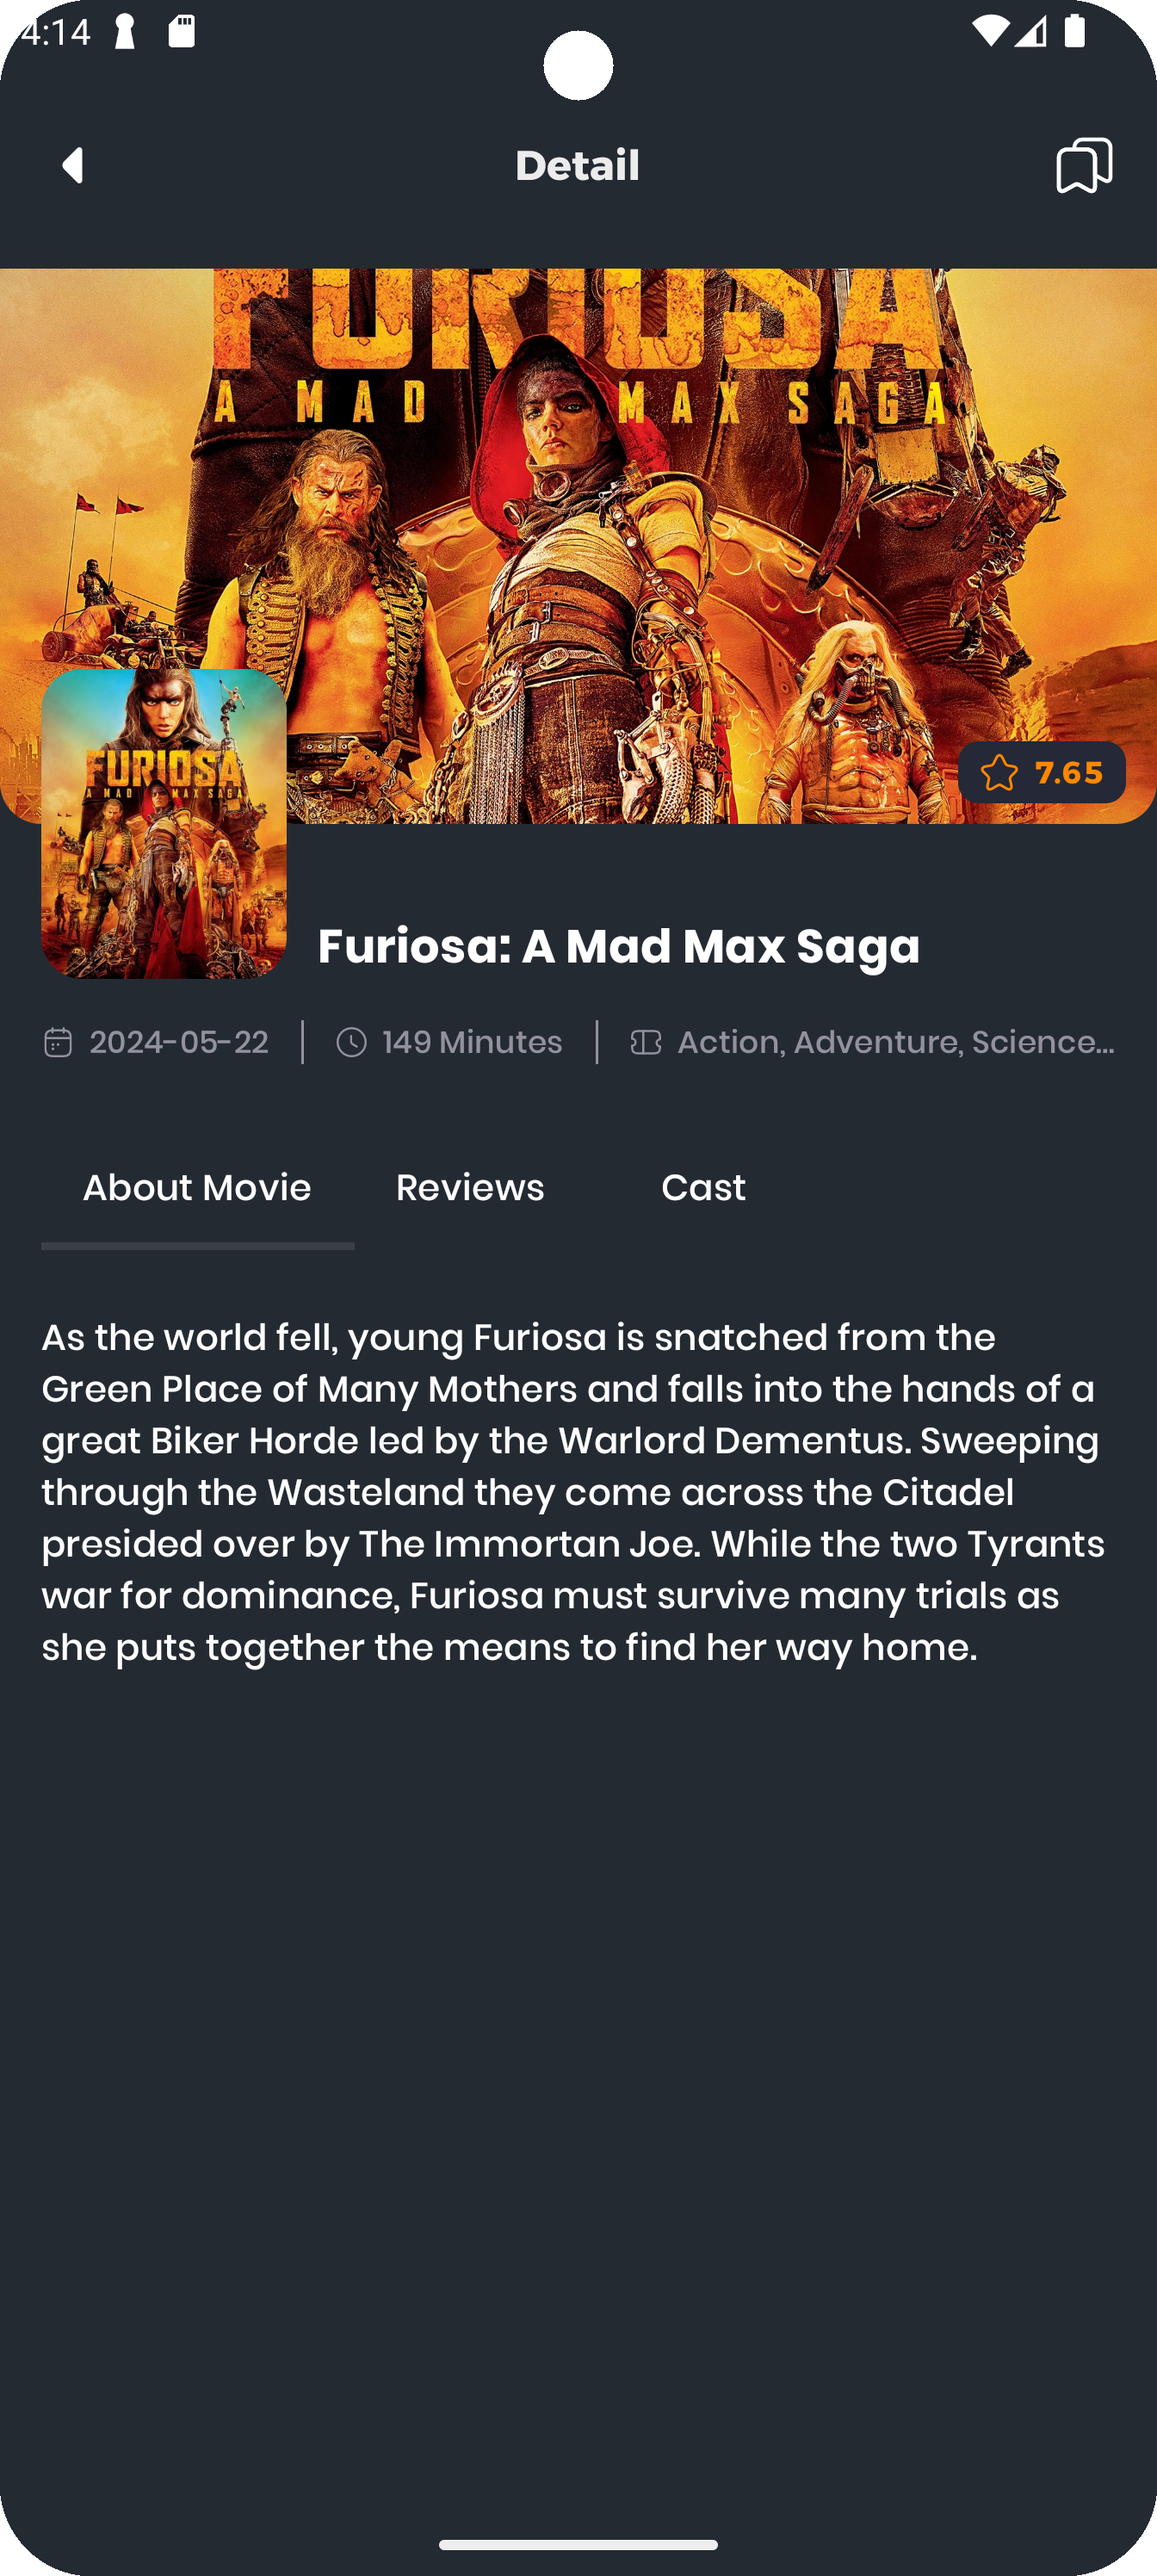
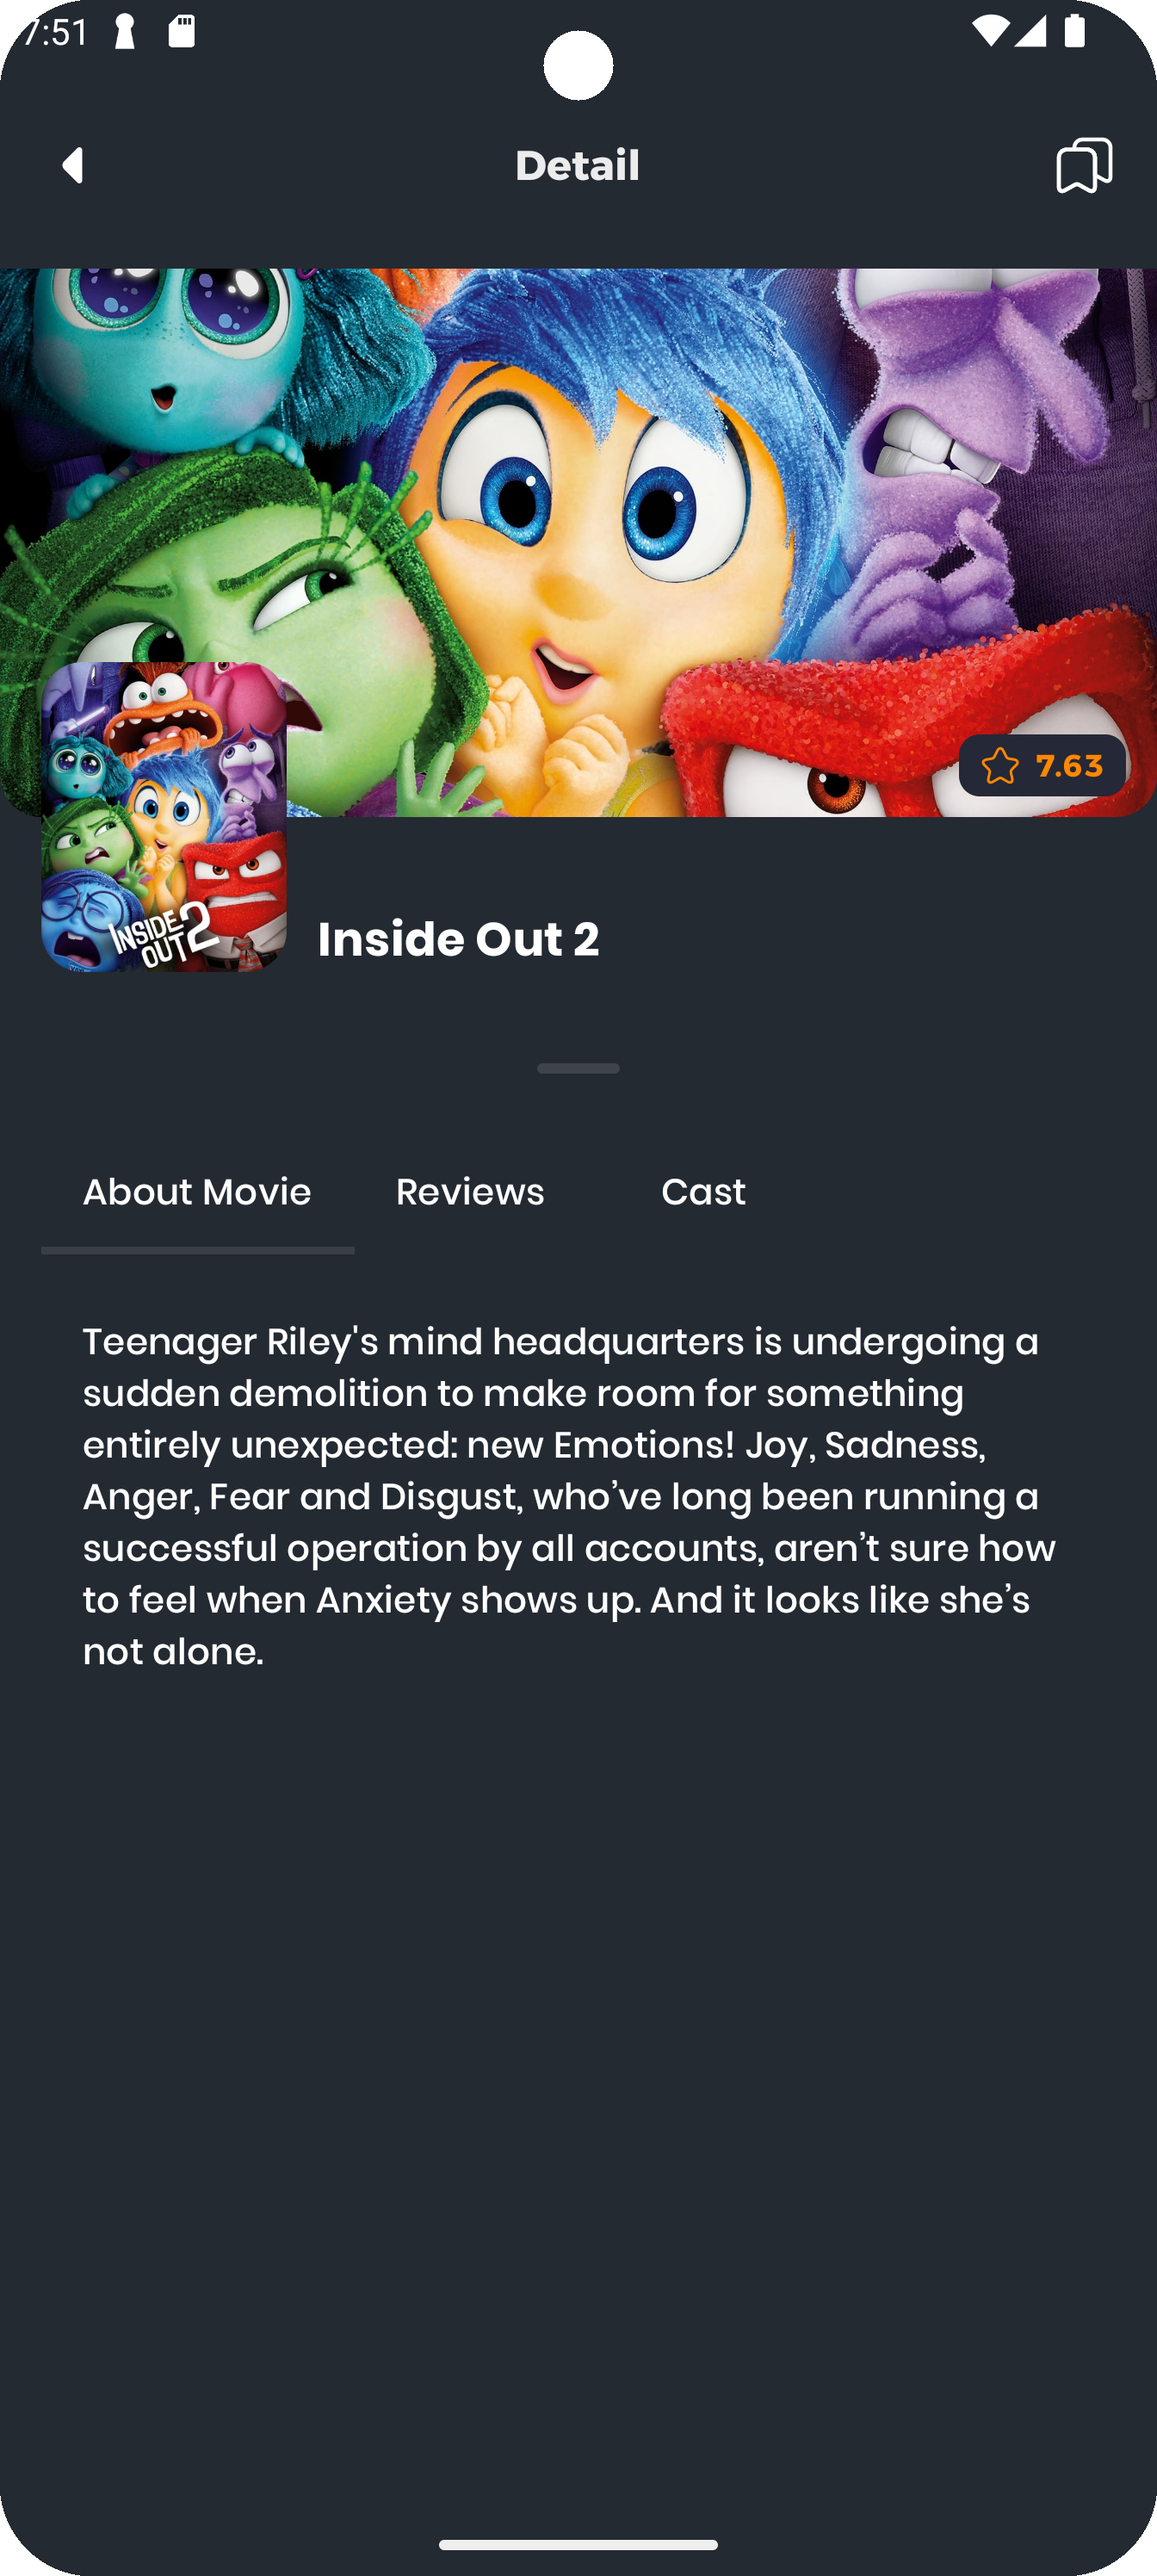
feat: support small screen

diff --git a/app/src/main/java/com/alvaro/movieapp/features/detail/DetailScreen.kt b/app/src/main/java/com/alvaro/movieapp/features/detail/DetailScreen.kt
@@ -15,29 +15,35 @@ import androidx.compose.foundation.layout.offset
 import androidx.compose.foundation.layout.padding
 import androidx.compose.foundation.layout.size
 import androidx.compose.foundation.layout.width
+import androidx.compose.foundation.lazy.LazyColumn
 import androidx.compose.foundation.lazy.grid.GridCells
 import androidx.compose.foundation.lazy.grid.LazyGridState
 import androidx.compose.foundation.lazy.grid.LazyVerticalGrid
 import androidx.compose.foundation.lazy.grid.items
 import androidx.compose.foundation.lazy.grid.rememberLazyGridState
-import androidx.compose.foundation.rememberScrollState
+import androidx.compose.foundation.lazy.rememberLazyListState
 import androidx.compose.foundation.shape.RoundedCornerShape
-import androidx.compose.foundation.verticalScroll
+import androidx.compose.material3.BottomSheetDefaults
+import androidx.compose.material3.BottomSheetScaffold
+import androidx.compose.material3.ExperimentalMaterial3Api
 import androidx.compose.material3.Icon
 import androidx.compose.material3.IconButton
 import androidx.compose.material3.MaterialTheme
 import androidx.compose.material3.Text
 import androidx.compose.material3.VerticalDivider
 import androidx.compose.runtime.Composable
+import androidx.compose.runtime.LaunchedEffect
 import androidx.compose.runtime.getValue
 import androidx.compose.runtime.mutableIntStateOf
 import androidx.compose.runtime.mutableStateOf
 import androidx.compose.runtime.remember
+import androidx.compose.runtime.rememberCoroutineScope
 import androidx.compose.runtime.setValue
 import androidx.compose.ui.Alignment
 import androidx.compose.ui.Modifier
 import androidx.compose.ui.draw.clip
 import androidx.compose.ui.graphics.Color
+import androidx.compose.ui.platform.LocalConfiguration
 import androidx.compose.ui.res.painterResource
 import androidx.compose.ui.text.font.FontWeight
 import androidx.compose.ui.tooling.preview.Preview
@@ -60,6 +66,7 @@ import com.alvaro.movieapp.features.ui.composables.ShowcaseItem
 import com.alvaro.movieapp.features.ui.composables.TabMenu
 import com.alvaro.movieapp.features.ui.navigation.ProvideAppBarAction
 import com.alvaro.movieapp.features.ui.navigation.ProvideAppBarTitle
+import com.alvaro.movieapp.features.ui.theme.Dark
 import com.alvaro.movieapp.features.ui.theme.Highlight
 import com.alvaro.movieapp.features.ui.theme.LightBlack
 import com.alvaro.movieapp.features.ui.theme.MovieAppTheme
@@ -69,7 +76,9 @@ import com.alvaro.movieapp.utils.getTMDBImageURL
 import com.alvaro.movieapp.utils.getTMDBOriginalImageURL
 import io.eyram.iconsax.IconSax
 import kotlinx.coroutines.flow.flowOf
+import kotlinx.coroutines.launch
 
+@OptIn(ExperimentalMaterial3Api::class)
 @Composable
 fun DetailScreen(
     state: MovieDetailState,
@@ -79,7 +88,14 @@ fun DetailScreen(
     val gridState = rememberLazyGridState()
     var tabIndex by remember { mutableIntStateOf(0) }
 
+    val scrollState = rememberLazyListState()
+    val coroutineScope = rememberCoroutineScope()
+
     val tabs = listOf("About Movie", "Reviews", "Cast")
+    val configuration = LocalConfiguration.current
+    val screenHeight = configuration.screenHeightDp.dp
+    val peekHeight = screenHeight * 0.6f
+    val remainingHeight = screenHeight - peekHeight
 
     ResourceHandler(
         resource = state.movie,
@@ -99,59 +115,84 @@ fun DetailScreen(
                     )
                 }
             }
-            Column(
-                modifier = modifier
-                    .fillMaxSize(),
+
+            LaunchedEffect(Unit) {
+                coroutineScope.launch {
+                    scrollState.animateScrollToItem(4)
+                }
+            }
+
+            BottomSheetScaffold(
+                sheetContent = {
+                    Column(
+                        modifier = modifier
+                            .fillMaxWidth()
+                            .padding(horizontal = 16.dp)
+                    ) {
+                        TabMenu(
+                            tabs = tabs,
+                            tabState = gridState,
+                            tabIndex = tabIndex,
+                            onTabClick = { idx ->
+                                tabIndex = idx
+                            }
+                        )
+                        Spacer(modifier = Modifier.height(24.dp))
+                        when (tabIndex) {
+                            0 -> AboutSection(
+                                overview = movie.overview
+                            )
+
+                            1 -> ReviewSection(
+                                reviewState = state.reviews.collectAsLazyPagingItems(),
+                                gridState = gridState
+                            )
+
+                            2 -> CastSection(
+                                gridState = gridState,
+                                movie = movie
+                            )
+                        }
+                    }
+                },
+                sheetPeekHeight = peekHeight,
+                containerColor = Dark,
+                sheetContainerColor = Dark,
+                sheetShape = BottomSheetDefaults.HiddenShape
             ) {
-                MovieBackground(
-                    movieBackdrop = movie.image,
-                    rating = movie.voteAverage
-                )
-                MovieHeader(
-                    movieTitle = movie.title,
-                    moviePoster = movie.image
-                )
-                Spacer(modifier = Modifier.height(16.dp))
-                MovieDetail(
-                    releaseDate = movie.releaseDate,
-                    duration = movie.runtime,
-                    genres = movie.genres.joinToString(),
-                    modifier = Modifier
-                        .offset(y = (-60).dp)
-                )
-                Spacer(modifier = Modifier.height(24.dp))
-                TabMenu(
-                    tabs = tabs,
-                    tabState = gridState,
-                    tabIndex = tabIndex,
-                    onTabClick = { idx ->
-                        tabIndex = idx
-                    },
-                    modifier = Modifier
-                        .padding(horizontal = 16.dp)
-                        .offset(y = (-60).dp)
-                )
-                Spacer(modifier = Modifier.height(24.dp))
-                when (tabIndex) {
-                    0 -> AboutSection(
-                        overview = movie.overview,
-                        modifier = Modifier
-                            .offset(y = (-60).dp)
-                    )
-
-                    1 -> ReviewSection(
-                        reviewState = state.reviews.collectAsLazyPagingItems(),
-                        gridState = gridState,
-                        modifier = Modifier
-                            .offset(y = (-60).dp)
-                    )
-
-                    2 -> CastSection(
-                        gridState = gridState,
-                        movie = movie,
-                        modifier = Modifier
-                            .offset(y = (-60).dp)
-                    )
+                LazyColumn(
+                    modifier = modifier
+                        .height(remainingHeight)
+                        .fillMaxWidth(),
+                    state = scrollState,
+                ) {
+                    item {
+                        MovieBackground(
+                            movieBackdrop = movie.image,
+                            rating = movie.voteAverage
+                        )
+                    }
+                    item {
+                        MovieHeader(
+                            movieTitle = movie.title,
+                            moviePoster = movie.image
+                        )
+                    }
+                    item {
+                        Spacer(modifier = Modifier.height(16.dp))
+                    }
+                    item {
+                        MovieDetail(
+                            releaseDate = movie.releaseDate,
+                            duration = movie.runtime,
+                            genres = movie.genres.joinToString(),
+                            modifier = Modifier
+                                .offset(y = (-60).dp)
+                        )
+                    }
+                    item {
+                        Spacer(modifier = Modifier.height(24.dp))
+                    }
                 }
             }
         }
@@ -297,16 +338,17 @@ fun AboutSection(
     overview: String,
     modifier: Modifier = Modifier,
 ) {
-    Column(
+    LazyColumn(
         modifier = modifier
-            .padding(horizontal = 16.dp)
-            .verticalScroll(rememberScrollState())
+            .padding(horizontal = 16.dp),
     ) {
-        Text(
-            text = overview,
-            color = Color.White,
-            style = MaterialTheme.typography.titleSmall,
-        )
+        item {
+            Text(
+                text = overview,
+                color = Color.White,
+                style = MaterialTheme.typography.titleSmall,
+            )
+        }
     }
 }
 

diff --git a/app/src/main/java/com/alvaro/movieapp/features/home/HomeScreen.kt b/app/src/main/java/com/alvaro/movieapp/features/home/HomeScreen.kt
@@ -13,6 +13,7 @@ import androidx.compose.foundation.layout.padding
 import androidx.compose.foundation.layout.wrapContentWidth
 import androidx.compose.foundation.lazy.LazyRow
 import androidx.compose.foundation.lazy.grid.GridCells
+import androidx.compose.foundation.lazy.grid.GridItemSpan
 import androidx.compose.foundation.lazy.grid.LazyGridState
 import androidx.compose.foundation.lazy.grid.LazyVerticalGrid
 import androidx.compose.foundation.lazy.grid.rememberLazyGridState
@@ -48,6 +49,7 @@ import com.alvaro.movieapp.utils.Helper
 import com.alvaro.movieapp.utils.getTMDBImageURL
 import kotlinx.coroutines.flow.flowOf
 
+
 @Composable
 fun HomeScreen(
     movieState: MovieState,
@@ -63,23 +65,6 @@ fun HomeScreen(
         modifier = modifier
             .fillMaxSize(),
     ) {
-        PopularMovie(
-            popularMovies = movieState.popularMoviesState.collectAsLazyPagingItems(),
-            onClickItem = onClickItem
-        )
-        Spacer(modifier = Modifier.height(64.dp))
-
-        TabMenu(
-            tabs = tabs,
-            tabState = gridState,
-            tabIndex = tabIndex,
-            onTabClick = { idx ->
-                tabIndex = idx
-            }
-        )
-
-        Spacer(modifier = Modifier.height(20.dp))
-
         CategoryMovies(
             state = when (tabIndex) {
                 0 -> movieState.nowPlayingMoviesState.collectAsLazyPagingItems()
@@ -90,12 +75,20 @@ fun HomeScreen(
             },
             gridState = gridState,
             onClickItem = onClickItem,
+            tabIndex = tabIndex,
+            tabs = tabs,
+            onTabClicked = { tabIndex = it },
+            popularMovies = movieState.popularMoviesState.collectAsLazyPagingItems()
         )
     }
 }
 
 @Composable
 fun CategoryMovies(
+    popularMovies: LazyPagingItems<Movie>,
+    tabs: List<String>,
+    tabIndex: Int,
+    onTabClicked: (Int) -> Unit = {},
     state: LazyPagingItems<Movie>,
     gridState: LazyGridState,
     onClickItem: (Int) -> Unit,
@@ -114,6 +107,38 @@ fun CategoryMovies(
                     horizontalArrangement = Arrangement.spacedBy(13.dp),
                     contentPadding = PaddingValues(bottom = 20.dp),
                 ) {
+                    item(
+                        span = {
+                            GridItemSpan(maxLineSpan)
+                        }
+                    ) {
+                        PopularMovie(
+                            popularMovies = popularMovies,
+                            onClickItem = onClickItem
+                        )
+                    }
+
+                    item(
+                        span = {
+                            GridItemSpan(maxLineSpan)
+                        }
+                    ) {
+                        Spacer(modifier = Modifier.height(24.dp))
+                    }
+
+                    item(
+                        span = {
+                            GridItemSpan(maxLineSpan)
+                        }
+                    ) {
+                        TabMenu(
+                            tabs = tabs,
+                            tabState = gridState,
+                            tabIndex = tabIndex,
+                            onTabClick = onTabClicked
+                        )
+                    }
+
                     items(items.itemCount) { index ->
                         val movie = state[index] ?: return@items
                         Image(

diff --git a/README.md b/README.md
@@ -9,7 +9,7 @@ This is a simple movie app that allows users to search for movies, view details 
 
 2. **Search page: Search for movies**
 
-|        **Search Page (with Results)**         |              **Search Page (No Results)**               |
+|      **Search Page (with Results)**       |            **Search Page (No Results)**             |
 |:-----------------------------------------:|:---------------------------------------------------:|
 | <img src="images/search.png" width="400"> | <img src="images/search_not_found.png" width="400"> |
 
@@ -19,9 +19,9 @@ This is a simple movie app that allows users to search for movies, view details 
 
 4. **Movie detail page: Display details about a movie**
 
-|                **Detail Page**                |              **Detail Page (Reviews)**               |               **Detail Page (Casts)**               |
-|:-----------------------------------------:|:------------------------------------------------:|:-----------------------------------------------:|
-| <img src="images/detail.png" width="400"> | <img src="images/detail_review.png" width="400"> | <img src="images/detail_casts.png" width="400"> |
+|              **Detail Page**              |            **Detail Page (Reviews)**             |            Detail Page (Bottom Sheet Full)            |             **Detail Page (Casts)**             |
+|:-----------------------------------------:|:------------------------------------------------:|:-----------------------------------------------------:|:-----------------------------------------------:|
+| <img src="images/detail.png" width="400"> | <img src="images/detail_review.png" width="400"> | <img src="images/detail_review_full.png" width="400"> | <img src="images/detail_casts.png" width="400"> |
 
 
 
